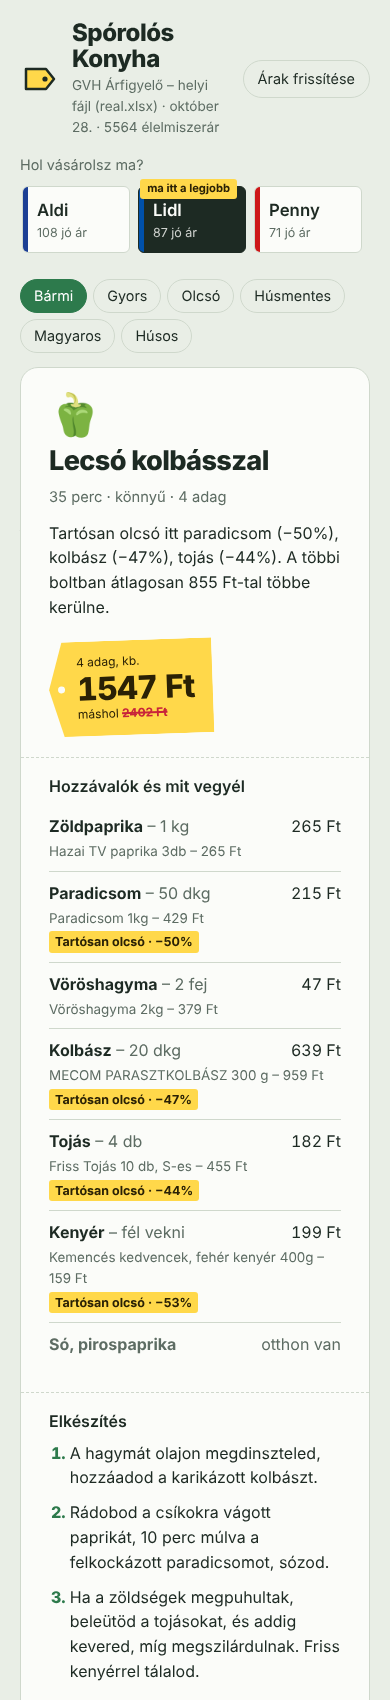
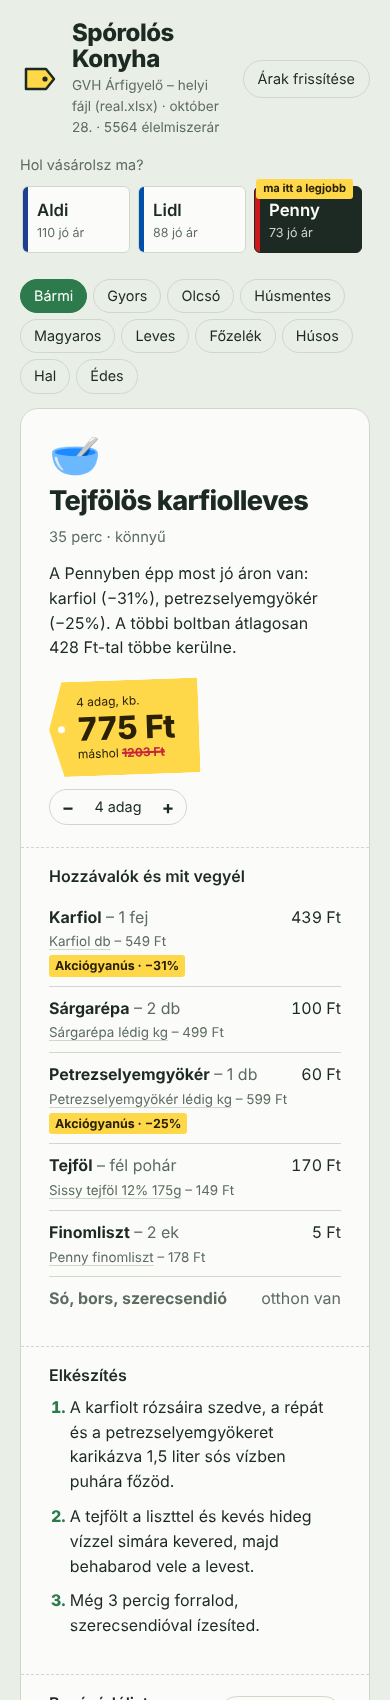
README: az Excel adatszerkezete, új funkciók, képernyőképek, CI-jelvény
Claude-Session: https://claude.ai/code/session_015MrDRCjvVF179NCXAewq6N

diff --git a/README.md b/README.md
@@ -1,12 +1,14 @@
 # Spórolós Konyha 🏷
 
-Böngészős receptajánló, ami a **GVH Árfigyelő** napi árai alapján megmondja: *ha ma ebben a boltban vásárolsz, mit érdemes főzni?* Kiválasztod a boltot, és az app olyan recepteket „dobál”, amelyekhez ott épp kiemelkedően jó áron kapod az alapanyagokat. Minden hozzávalónál látod, melyik konkrét terméket vedd meg, mennyibe kerül, és miért jó az ára.
+[![Build és tesztek](https://github.com/vereszsolt06/teszt/actions/workflows/build.yml/badge.svg)](https://github.com/vereszsolt06/teszt/actions/workflows/build.yml)
+
+Böngészős receptajánló, ami a **GVH Árfigyelő** napi árai alapján megmondja: *ha ma ebben a boltban vásárolsz, mit érdemes főzni?* Kiválasztod a boltot, és az app olyan recepteket „dobál”, amelyekhez ott épp kiemelkedően jó áron kapod az alapanyagokat. Minden hozzávalónál látod, melyik konkrét terméket vedd meg, mennyibe kerül, és miért jó az ára. Van hozzá kipipálható bevásárlólista is, és egy összevetés arról, mennyibe kerülne ugyanez a többi láncban.
 
 Java 21-ben írva, **külső függőség nélkül** (beépített JDK webszerver, saját JSON- és xlsx-olvasó), így egyetlen JAR-ként fut.
 
 ![Asztali nézet](docs/kepernyokep.png)
 
-<img src="docs/kepernyokep-mobil.png" alt="Mobil nézet" width="300">
+<img src="docs/kepernyokep-mobil.png" alt="Mobil nézet" width="300"> <img src="docs/termek-osszehasonlitas.png" alt="Egy termék ára a láncokban" width="480">
 
 ## Indítás
 
@@ -22,9 +24,11 @@ build.cmd run
 
 Ezután nyisd meg: **http://localhost:8080**
 
-Induláskor az app letölti a napi Excelt (`https://cdnarfigyeloprodweu.azureedge.net/excel/arfigyelo_napi_termekadatok.xlsx`), és elmenti a `data/` mappába. Ha nincs internet, a legutóbb letöltött példányt használja; ha az sincs, demó árakra vált (ezt a fejléc mindig kiírja).
+Induláskor az app letölti a napi Excelt (`https://cdnarfigyeloprodweu.azureedge.net/excel/arfigyelo_napi_termekadatok.xlsx`), és elmenti a `data/` mappába. 6 óránként a háttérben újratölti. Ha nincs internet, a legutóbb letöltött példányt használja; ha az sincs, demó árakra vált (ezt a fejléc és egy sárga sáv is jelzi). Egy már betöltött valós árállapotot egy sikertelen frissítés sosem cserél demóra.
 
-Csak fordítás: `./build.sh` → `target/sporolos-konyha.jar`, ami utána `java -jar target/sporolos-konyha.jar`-ral indítható. IntelliJ / Eclipse alatt a `pom.xml`-lel Maven-projektként is megnyitható (`hu.sporolos.App` a főosztály).
+**Telefonról:** indítsd `HOST=0.0.0.0 ./build.sh run`-nal, és a telefon böngészőjében nyisd meg a gép helyi IP-címét (pl. `http://192.168.1.20:8080`). A „Hozzáadás a kezdőképernyőhöz” menüponttal alkalmazásként is elmenthető.
+
+Csak fordítás: `./build.sh` → `target/sporolos-konyha.jar`, ami `java -jar target/sporolos-konyha.jar`-ral indítható. A GitHub Actions minden pushnál lefordítja és teszteli a projektet, a kész JAR-t pedig letölthető artifactként csatolja. IntelliJ / Eclipse alatt a `pom.xml`-lel Maven-projektként is megnyitható (`hu.sporolos.App` a főosztály).
 
 ### Beállítások
 
@@ -40,10 +44,31 @@ Parancssorból (`-Dport=9000`), környezeti változóval (`PORT=9000`) vagy egy 
 | `data.dir` | `DATA_DIR` | `data` | letöltött Excel és árelőzmények helye |
 | `refresh.hours` | `REFRESH_HOURS` | `6` | ennyi óránként tölti újra az árakat |
 
+## Mit tud
+
+- **Boltválasztó** a hat élelmiszerlánccal; a „ma itt a legjobb” címke azt a boltot jelöli, ahol ma a legjobb receptet lehet összevásárolni.
+- **Receptdobáló:** elsőre a legjobb recept, a „Másik receptet kérek” gomb a legjobb 8 közül húz súlyozott véletlennel, ismétlés nélkül. Szűrők: gyors, olcsó, húsmentes, magyaros, leves, főzelék, húsos, hal, édes.
+- **Hozzávalók:** minden hozzávalónál a választott konkrét termék, a receptre jutó ár, és ha épp jó áron van, annak oka.
+- **Bevásárlólista:** egész csomagokkal (pl. „2 × 450 g”), mérlegelős áruknál a szükséges tömeggel, kipipálható tételekkel, megosztással vagy vágólapra másolással. Az olaj, a liszt és a cukor külön, „ha nincs otthon” tételként szerepel.
+- **Adagszám** állítása 1–20 adag között, minden ár újraszámolva.
+- **„Mennyibe kerülne máshol?”**: a recept ára mind a hat láncban; egy koppintással átváltasz a másik boltra ugyanazzal a recepttel.
+- **Termékrészletek:** bármelyik termékre koppintva látod az árát minden láncban, hány boltjukban kapható, és mennyi a legdrágább boltjukban.
+- **Keresés** a kiválasztott bolt termékei között, egységár szerint rendezve.
+- **Összes recept** böngészése ajánlás, ár (adagonként) vagy elkészítési idő szerint.
+- **Megosztható link:** a cím tartalmazza a boltot, a receptet és az adagszámot (pl. `#bolt=tesco&recept=gulyasleves&adag=8`).
+
 ## Hogyan működik
 
-### 1. Adatok
-A GVH Árfigyelő napi Excelje soronként egy *termék × üzletlánc* párost tartalmaz: vonalkód, név, hivatalos kategória (pl. 18 = Csirkemellfilé), kiszerelés, a lánc legolcsóbb és legdrágább boltjának ára, egységár, és hogy hány láncban/boltban kapható. Az app ebből csak az élelmiszer-kategóriákat tartja meg (1–122), a drogériás tételeket (sampon, pelenka stb.) eldobja. Az oszlopokat a **fejléc szövege alapján** keresi meg, így egy oszlopsorrend-változás nem töri el.
+### 1. Adatok – mit tartalmaz pontosan az Árfigyelő Excel?
+A napi fájl egyetlen munkalap, soronként egy **termék × üzletlánc** páros (a 2026-10-28-i fájlban 25 443 sor). Minden árnál ott van, melyik üzletláncra vonatkozik. Konkrét boltot (címet) viszont nem tartalmaz: a lánc **legolcsóbb és legdrágább boltjának** ára szerepel benne, és hogy a lánc hány boltjában kapható. Oszlopok: vonalkód, név, hivatalos kategória (pl. 18 = Csirkemellfilé), lánc, egység (kg / l / db), kiszerelés, minimum és maximum ár, minimum és maximum egységár, hány láncban kapható, hány boltban kapható, a lánc összes boltja.
+
+Amit ebből az app kihoz:
+
+- **Élelmiszer-szűrés:** csak az 1–122. kategóriát tartja meg (5 564 sor), a drogériás tételeket (sampon, pelenka) eldobja. A Rossmann, a dm és a Müller kevés élelmiszert tart, ezért a boltválasztóban nem jelennek meg; a termékek láncok közötti összevetésében viszont szerepelnek.
+- **Elérhetőség:** a „Hány boltban elérhető / Üzletlánc összes boltja” arányból. A diszkontláncok (Aldi, Lidl, Penny) szinte mindent minden boltban tartanak, egységes áron. A Sparnál viszont 317 élelmiszer a boltok kevesebb mint 20%-ában kapható (jellemzően csak az Interspar tartja). Az ilyen termékeket az app alapanyagnak és jó árnak is visszafogottabban ajánlja, és kiírja, hogy „csak a boltjaik X%-ában kapható”.
+- **Láncon belüli árszórás:** a Spar 102 élelmiszerénél a legolcsóbb bolti ár legalább 12%-kal a legdrágább alatt van, sokszor feleannyi. Ilyen például a Don Francesco spagetti, ami 294 Ft a legolcsóbb és 699 Ft a legdrágább boltjukban; az Auchanban 715 Ft. Ezek jellemzően a lánc aktuális akciói, ezért ez *„Akciógyanús”* jelzést kap.
+- **Adathibák kezelése:** az egységárat a csomagárból számolja, mert a fájl egységár-oszlopa néhány sorban hibás (pl. egy 26 g-os teánál a csomagár szerepel benne). Néhány termék rossz kategóriában van (pl. trappista sajt a natúr joghurtok közt); ezeket kizáró kulcsszavak szűrik ki.
+- Az oszlopokat a **fejléc szövege alapján** keresi meg, így egy oszlopsorrend-változás nem töri el. Az xlsx-et folyamatosan (StAX) olvassa: kb. fél másodperc, néhány tíz MB memória.
 
 ### 2. Mi számít „kiemelkedően jó árnak”?
 Minden bolti árra négy jelet néz, és a legerősebbet tartja meg (`DealAnalyzer`):
@@ -55,45 +80,51 @@ Minden bolti árra négy jelet néz, és a legerősebbet tartja meg (`DealAnalyz
 | SPREAD | *Akciógyanús* | a lánc legolcsóbb boltjában ≥ 12%-kal olcsóbb, mint a legdrágábban | 80% |
 | CATEGORY | *Tartósan olcsó* | egységárban a kategória legolcsóbb 5%-ában van, és ≥ 30%-kal a medián alatt | 40% |
 
-Az Excel csak az adott napot tartalmazza, ezért az app **minden nap elmenti a láncok árait** (`data/history/ÉÉÉÉ-HH-NN.tsv`). Néhány nap futás után így azt is felismeri, ha valami *épp most* olcsóbb a szokásosnál.
+Ha a termék a lánc boltjainak kevesebb mint felében kapható, a pontszám arányosan csökken. Az Excel csak az adott napot tartalmazza, ezért az app **minden nap elmenti a láncok árait** (`data/history/ÉÉÉÉ-HH-NN.tsv`). Néhány nap futás után így azt is felismeri, ha valami *épp most* olcsóbb a szokásosnál.
 
-### 3. Receptajánlás
-26 hétköznapi (főleg magyaros) recept van beépítve (`src/main/resources/data/recipes.json`). Az alapanyagok az Árfigyelő **kategóriáihoz** vannak kötve (`products.json`), pl. „darált hús” → 85-ös kategória, „spagetti” → 50-es kategória + „spagetti” a névben. A `RecipeRecommender` minden receptet „megvásárol” minden boltban:
+### 3. Receptajánlás és bevásárlás
+55 hétköznapi, főleg magyaros recept van beépítve (`src/main/resources/data/recipes.json`): levesek, főzelékek, egytálételek, sült húsok, halak, saláták, desszertek. Minden hozzávaló abszolút mennyiséggel szerepel (kg / l / db). Az alapanyagok az Árfigyelő **kategóriáihoz** vannak kötve (`products.json`), pl. „darált hús” → 85-ös kategória, „spagetti” → 50-es kategória + „spagett” a névben.
 
-- hozzávalónként a **legolcsóbb adagot** választja (egységár × szükséges mennyiség), de ha van jó áron lévő termék, ami legfeljebb 20%-kal drágább, azt veszi;
-- kiszámolja a recept költségét ebben a boltban és a többi bolt mediánjával;
-- pontoz: **45%** mennyire épül jó árakra (súlyozva a jel erősségével), **35%** mennyivel olcsóbb itt, mint máshol, **20%** hány hozzávalóra van valós bolti ár.
+A `RecipeRecommender` minden receptet „megvásárol” minden boltban:
 
-A felület elsőre a legjobb receptet mutatja, a **„Másik receptet kérek”** gomb a legjobb 8 közül húz súlyozott véletlennel, ismétlés nélkül. A bolt választható, a „ma itt a legjobb” címke a legmagasabb pontszámú boltot jelöli.
+- **Egységátváltás:** kg ↔ l (élelmiszernél ≈ azonos), darab ↔ kg a darabtömeggel (1 paprika ≈ 0,15 kg, 1 uborka ≈ 0,4 kg), csomós zöldségnél a csomag tömegével.
+- **Csomagok:** mérlegelős áru (lédig, Ft/kg, pultos) esetén annyit veszel, amennyi kell. A kilós árú, de fix tömegű csomagoknál a névből olvassa ki a tömeget („ca. 500g”). Egyébként egész csomagokat vesz, 15% tűréssel: 0,5 kg pulykamellhez elég egy 450 g-os tálca.
+- **Választás:** hozzávalónként a felhasznált rész ára számít, plusz a kényszerűen megvett maradék 35%-a. Így nem javasol 30-as tojástálcát 6 tojáshoz csak azért, mert darabra 2 forinttal olcsóbb. A ritkán kapható termékek hátrébb kerülnek. Ha van jó áron lévő termék, ami legfeljebb 20%-kal drágább a legolcsóbbnál, azt választja.
+- **Pontozás:** **45%** mennyire épül jó árakra (a jel erősségével súlyozva), **35%** mennyivel olcsóbb itt, mint a többi bolt mediánjával, **20%** hány hozzávalóra van valós bolti ár.
 
 ### REST API
 
 | Végpont | Leírás |
 |---|---|
-| `GET /api/status` | adatforrás, dátum, élelmiszerláncok, jó árak száma |
-| `GET /api/suggestions?store=lidl&tag=vega&limit=12` | rangsorolt receptek egy boltra (tagek: `gyors`, `olcsó`, `vega`, `magyaros`, `húsos`, …) |
+| `GET /api/status` | adatforrás, dátum, demó/elavult jelzés, élelmiszerláncok |
+| `GET /api/suggestions?store=lidl&tag=vega&limit=12` | rangsorolt receptek egy boltra, hozzávalókkal |
+| `GET /api/recipe?id=lecso&store=lidl&servings=6` | egy recept bevásárlólistával, és ára mind a hat láncban |
 | `GET /api/deals?store=lidl&limit=30&ingredients=true` | a bolt kiemelt árai (`ingredients=true`: csak recept-alapanyagok) |
+| `GET /api/item?id=<vonalkód>` | egy termék ára minden láncban |
+| `GET /api/search?q=tej&store=lidl&limit=30` | keresés a termékek között, egységár szerint |
 | `POST /api/refresh` | árak újratöltése |
+
+A válaszok gzip-pel tömörítve mennek, ha a böngésző kéri.
 
 ## Projektszerkezet
 
 ```
 src/main/java/hu/sporolos/
-  App.java                     belépési pont, beállítások
-  core/  Json                  függőség nélküli JSON olvasó/író
-         DealAnalyzer          „jó ár” felismerés (4 jel)
-         RecipeRecommender     receptek beárazása és rangsorolása
-         PriceRepository       forrásváltás, gyorsítótár, időzített frissítés
-  data/  ArfigyeloExcelProvider  napi Excel letöltése / beolvasása
-         XlsxReader            xlsx olvasó (ZIP + XML, XXE ellen védve)
-         PriceHistory          napi árelőzmények
-         DemoPriceProvider     tartalék demó árak
-         Catalog               alapanyagok, láncok, receptek
-  model/ Models                rekordok (PriceEntry, Deal, Recipe, Suggestion…)
-  web/   WebServer, ApiMapper  REST API + statikus fájlok
+  App.java                       belépési pont, beállítások
+  core/  Json                    függőség nélküli JSON olvasó/író
+         DealAnalyzer            „jó ár” felismerés (4 jel + elérhetőség)
+         RecipeRecommender       receptek beárazása, csomagok, rangsorolás
+         PriceRepository         forrásváltás, háttérfrissítés, hibatűrés
+  data/  ArfigyeloExcelProvider  napi Excel letöltése / beolvasása / gyorsítótár
+         XlsxReader              folyamatos xlsx-olvasó (ZIP + StAX, XXE ellen védve)
+         PriceHistory            napi árelőzmények
+         DemoPriceProvider       tartalék demó árak
+         Catalog                 alapanyagok, láncok, receptek, illesztés
+  model/ Models                  rekordok (PriceEntry, Deal, Recipe, Suggestion…)
+  web/   WebServer, ApiMapper    REST API + statikus fájlok
 src/main/resources/
   data/products.json, recipes.json
-  static/index.html, app.css, app.js, favicon.svg
+  static/index.html, app.css, app.js, favicon.svg, manifest.webmanifest
 src/test/java/hu/sporolos/AllTests.java
 ```
 
@@ -103,30 +134,38 @@ src/test/java/hu/sporolos/AllTests.java
 ./build.sh test        # Windows: build.cmd test
 ```
 
-16 teszt: JSON, xlsx-olvasás, az Árfigyelő-fejléc felismerése és egységátváltás, mind a négy jó ár jel, az ajánló rangsorolása és adagköltség-számítása, valamint egy végponttól végpontig teszt, ami elindítja a webszervert és végighívja az API-t. Ha az `ARFIGYELO_TEST_FILE` környezeti változó egy valódi napi Excelre mutat, a teljes folyamatot azon is lefuttatja (a 2026-10-28-i fájllal mind a 16 teszt sikeres: 5564 élelmiszerár, 6 lánc).
+21 teszt fut le:
+- JSON- és xlsx-olvasás, az Árfigyelő-fejléc felismerése, egységátváltás;
+- mind a négy jó ár jel, valamint az elérhetőség hatása;
+- a csomagmodell: tojástálca vagy doboz, mérlegelős áru, „ca. 500g”, darab ↔ kg, tűrés;
+- az ajánló rangsorolása és adagköltsége;
+- a letöltés, a gyorsítótár és a visszaesés egy helyi HTTP-szerverrel;
+- a hibás frissítés kezelése (a valós adat nem cserélődik demóra);
+- végponttól végpontig teszt, ami elindítja a webszervert, és végighívja az összes API-t.
+
+Ha az `ARFIGYELO_TEST_FILE` környezeti változó egy valódi napi Excelre mutat, a teljes folyamatot azon is lefuttatja: mind a hat láncban legalább 10 árazható recept és életszerű árak kellenek. A 2026-10-28-i fájllal mind a 21 teszt sikeres, és mind a hat láncban mind az 55 recept árazható.
 
 ## Feltételezések és döntések
 
 Ezeket kérdezés nélkül döntöttem el; bármelyik könnyen módosítható.
 
-- **Böngészős app, nem mobilapp.** Egyszerűbb telepíteni (egy JAR), telefonon is jól néz ki, és `HOST=0.0.0.0`-val a telefon a helyi hálózaton keresztül el is éri.
-- **Java, külső könyvtár nélkül.** Spring Boot helyett a JDK beépített HTTP szervere; így nincs függőségletöltés, és a build bárhol működik, ahol van JDK 21.
-- **Az adatforrás a GVH napi Excelje** (amit megadtál). Az `arfigyelo.gvh.hu` oldal belső API-ját nem használom, mert nem nyilvános és dokumentálatlan.
-- **„Bolt” = üzletlánc.** Az Excel láncszintű (min./max.) árakat ad, nem boltonként. A „minimum ár” a lánc legolcsóbb boltjára vonatkozik, ezért a te boltodban lehet drágább; ezt a „máshol akár … Ft” felirat jelzi.
-- **Csak élelmiszerláncok jelennek meg** (Aldi, Lidl, Penny, Auchan, Tesco, Spar). A Rossmann, a dm és a Müller kevés élelmiszert tart, ezért kimaradnak (a küszöb: a legnagyobb lánc kínálatának 15%-a).
-- **A recept költsége a felhasznált mennyiségre jutó rész**, nem a teljes csomag ára (pl. 6 tojás egy 10-es dobozból). Így összevethetők a boltok, de a pénztárnál a teljes csomagot fizeted.
-- **Néhány alapanyagot az Árfigyelő nem követ** (tonhal, tortilla, passata, gomba, cukkini, spenót, kókusztej, lekvár stb.). Ezek becsült árral (*) szerepelnek, és nem számítanak jó árnak.
-- **Egységeltérésnél közelítek:** ha a bolt darabra árazza, amit a recept kilóban kér (pl. „TV paprika 3 db”), a csomagár × recept-hányad becslést használom. A kg és az l felcserélhetőnek számít (sűrűség ≈ 1).
-- **Kamraáru (só, bors, fűszerek) „otthon van”**, nem árazom.
-- **A „Tartósan olcsó” jel kisebb súlyú**, mert a sajátmárkás termékek szinte mindig a kategória aljára esnek. Ettől még nem „épp most” akciósak. Az igazi „épp most” jelek a láncok közti árkülönbség, a láncon belüli árszórás és pár nap után a saját előzmények.
-- **Adagok:** a receptek többsége 4 adagos, a reggeli és gyors receptek 2 adagosak; a felület mindig kiírja.
+- **Böngészős app, nem natív mobilapp.** Egyszerűbb telepíteni (egy JAR), telefonon is jól működik, és kezdőképernyőre tehető.
+- **Java, külső könyvtár nélkül.** Spring Boot helyett a JDK beépített HTTP szervere: nincs függőségletöltés, és a build bárhol működik, ahol van JDK 21.
+- **Az adatforrás a GVH napi Excelje.** Az `arfigyelo.gvh.hu` oldal belső API-ját nem használom, mert nem nyilvános és dokumentálatlan.
+- **A „bolt” üzletláncot jelent**, mert az Excel láncszintű (minimum/maximum) árakat ad. Az app a lánc legolcsóbb boltjának árát mutatja, ezért a te boltodban lehet drágább; ezt a „máshol akár … Ft” felirat és a termékrészletek is jelzik.
+- **Kétféle összeg.** A recept ára a felhasznált mennyiségre jutó rész, így a boltok összevethetők. A bevásárlólista egész csomagokkal számol: ennyit fizetsz a pénztárnál.
+- **Néhány alapanyagot az Árfigyelő nem követ** (tonhal, tortilla, passata, gomba, cukkini, spenót, kókusztej, lekvár, tarhonya, zabpehely stb.). Ezek becsült árral (*) szerepelnek, és nem számítanak jó árnak. A recepteket úgy válogattam, hogy főleg követett alapanyagokra épüljenek.
+- **Kamraáru:** a fűszerek (só, bors, pirospaprika) „otthon vannak”, nem árazom őket. Az olaj, a liszt és a cukor árazott, de a bevásárlólistán külön, „ha nincs otthon” tételként szerepel.
+- **A „Tartósan olcsó” jel kisebb súlyú**, mert a sajátmárkás termékek szinte mindig a kategória aljára esnek. Ettől még nem „épp most” akciósak.
+- **Darabtömegek** átlagos értékek (paprika 15 dkg, uborka 40 dkg, hagyma 12 dkg, karfiol 1 kg); a `products.json`-ban állíthatók.
 - **Betűtípusok** a Google Fontsról töltődnek; offline a rendszer betűtípusára vált, a működést nem érinti.
 
 ## Ismert korlátok, továbbfejlesztési ötletek
 
-- Az első napokban nincs előzmény, ezért a *Olcsóbb a szokásosnál* jel kb. 3 napi futás után jelenik meg.
+- Az első napokban nincs előzmény, ezért az *Olcsóbb a szokásosnál* jel kb. 3 napi futás után jelenik meg.
 - Bolt (nem lánc) szintű árakat az Excel nem tartalmaz; egy térképes boltválasztóhoz az Árfigyelő belső API-ja kellene.
-- Több recept, adagszám-állítás, bevásárlólista-export, kedvenc receptek.
+- Néhány zöldséget a láncok következetlenül adnak meg (pl. „csomós petrezselyemgyökér” egyszer darabra, egyszer kilóra); ezeknél az ár közelítő.
+- Ötletek: heti menütervező egy bevásárlással, kedvenc receptek, saját recept felvétele a felületről.
 
 ---
 Az árak forrása: [GVH Árfigyelő](https://arfigyelo.gvh.hu). A boltban kiírt ár az irányadó.
